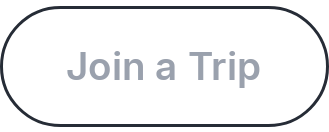
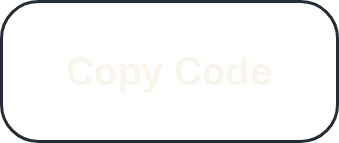
feat(core-ui): restyle buttons and cards, add InkCard and InkGradientBackground
AlongsideButton gains OnPaper and Text variants, a 52dp min height and
the design's 14dp corner shape; Secondary gets the subtle outline +
paper text. PaperCard moves to the paper token (surface is dark now).

diff --git a/core/ui/src/commonMain/kotlin/com/alongside/core/ui/component/AlongsideButton.kt b/core/ui/src/commonMain/kotlin/com/alongside/core/ui/component/AlongsideButton.kt
@@ -1,15 +1,26 @@
 package com.alongside.core.ui.component
 
+import androidx.compose.foundation.BorderStroke
+import androidx.compose.foundation.layout.Box
 import androidx.compose.foundation.layout.PaddingValues
+import androidx.compose.foundation.layout.defaultMinSize
+import androidx.compose.foundation.layout.padding
 import androidx.compose.material3.Button
 import androidx.compose.material3.ButtonDefaults
+import androidx.compose.material3.MaterialTheme
 import androidx.compose.material3.OutlinedButton
+import androidx.compose.material3.Surface
 import androidx.compose.material3.Text
+import androidx.compose.material3.TextButton
 import androidx.compose.runtime.Composable
 import androidx.compose.ui.Modifier
 import androidx.compose.ui.tooling.preview.Preview
 import androidx.compose.ui.unit.dp
+import com.alongside.core.ui.theme.AlongsideSpacing
 import com.alongside.core.ui.theme.AlongsideTheme
+import com.alongside.core.ui.theme.alongsideColors
+
+private val ButtonMinHeight = 52.dp
 
 @Composable
 public fun AlongsideButton(
@@ -19,14 +30,16 @@ public fun AlongsideButton(
     variant: AlongsideButtonVariant = AlongsideButtonVariant.Primary,
     enabled: Boolean = true,
 ) {
+    val shape = MaterialTheme.shapes.medium
     val contentPadding = PaddingValues(horizontal = 24.dp, vertical = 12.dp)
+    val sizedModifier = modifier.defaultMinSize(minHeight = ButtonMinHeight)
     when (variant) {
         AlongsideButtonVariant.Primary ->
             Button(
                 onClick = onClick,
-                modifier = modifier,
+                modifier = sizedModifier,
                 enabled = enabled,
-                shape = ButtonDefaults.shape,
+                shape = shape,
                 contentPadding = contentPadding,
             ) {
                 Text(text)
@@ -35,9 +48,45 @@ public fun AlongsideButton(
         AlongsideButtonVariant.Secondary ->
             OutlinedButton(
                 onClick = onClick,
-                modifier = modifier,
+                modifier = sizedModifier,
                 enabled = enabled,
-                shape = ButtonDefaults.outlinedShape,
+                shape = shape,
+                border = BorderStroke(1.dp, MaterialTheme.colorScheme.outline),
+                colors =
+                    ButtonDefaults.outlinedButtonColors(
+                        contentColor = MaterialTheme.alongsideColors.paper,
+                    ),
+                contentPadding = contentPadding,
+            ) {
+                Text(text)
+            }
+
+        AlongsideButtonVariant.OnPaper ->
+            Button(
+                onClick = onClick,
+                modifier = sizedModifier,
+                enabled = enabled,
+                shape = shape,
+                colors =
+                    ButtonDefaults.buttonColors(
+                        containerColor = MaterialTheme.alongsideColors.paperWhite,
+                        contentColor = MaterialTheme.alongsideColors.onPaper,
+                    ),
+                contentPadding = contentPadding,
+            ) {
+                Text(text)
+            }
+
+        AlongsideButtonVariant.Text ->
+            TextButton(
+                onClick = onClick,
+                modifier = sizedModifier,
+                enabled = enabled,
+                shape = shape,
+                colors =
+                    ButtonDefaults.textButtonColors(
+                        contentColor = MaterialTheme.alongsideColors.labelMuted,
+                    ),
                 contentPadding = contentPadding,
             ) {
                 Text(text)
@@ -49,7 +98,7 @@ public fun AlongsideButton(
 @Composable
 private fun AlongsideButtonPrimaryPreview() {
     AlongsideTheme {
-        AlongsideButton(text = "Continue with Google", onClick = {})
+        AlongsideButton(text = "Allow Photo Access", onClick = {})
     }
 }
 
@@ -57,6 +106,30 @@ private fun AlongsideButtonPrimaryPreview() {
 @Composable
 private fun AlongsideButtonSecondaryPreview() {
     AlongsideTheme {
-        AlongsideButton(text = "Join a Trip", onClick = {}, variant = AlongsideButtonVariant.Secondary)
+        AlongsideButton(text = "Copy Code", onClick = {}, variant = AlongsideButtonVariant.Secondary)
+    }
+}
+
+@Preview
+@Composable
+private fun AlongsideButtonOnPaperPreview() {
+    AlongsideTheme {
+        Surface(color = MaterialTheme.alongsideColors.paper) {
+            Box(modifier = Modifier.padding(AlongsideSpacing.lg)) {
+                AlongsideButton(
+                    text = "Continue with Google",
+                    onClick = {},
+                    variant = AlongsideButtonVariant.OnPaper,
+                )
+            }
+        }
+    }
+}
+
+@Preview
+@Composable
+private fun AlongsideButtonTextPreview() {
+    AlongsideTheme {
+        AlongsideButton(text = "Not now", onClick = {}, variant = AlongsideButtonVariant.Text)
     }
 }

diff --git a/core/ui/src/commonMain/kotlin/com/alongside/core/ui/component/InkGradientBackground.kt b/core/ui/src/commonMain/kotlin/com/alongside/core/ui/component/InkGradientBackground.kt
@@ -1,0 +1,42 @@
+package com.alongside.core.ui.component
+
+import androidx.compose.foundation.background
+import androidx.compose.foundation.layout.Box
+import androidx.compose.foundation.layout.BoxScope
+import androidx.compose.foundation.layout.size
+import androidx.compose.material3.MaterialTheme
+import androidx.compose.material3.Text
+import androidx.compose.runtime.Composable
+import androidx.compose.ui.Modifier
+import androidx.compose.ui.graphics.Brush
+import androidx.compose.ui.tooling.preview.Preview
+import androidx.compose.ui.unit.dp
+import com.alongside.core.ui.theme.AlongsideTheme
+import com.alongside.core.ui.theme.alongsideColors
+
+/** Hero-screen background: near-black ink with a subtle vertical gradient. */
+@Composable
+public fun InkGradientBackground(
+    modifier: Modifier = Modifier,
+    content: @Composable BoxScope.() -> Unit,
+) {
+    val brush =
+        Brush.verticalGradient(
+            colors =
+                listOf(
+                    MaterialTheme.alongsideColors.gradientTop,
+                    MaterialTheme.alongsideColors.gradientBottom,
+                ),
+        )
+    Box(modifier = modifier.background(brush), content = content)
+}
+
+@Preview
+@Composable
+private fun InkGradientBackgroundPreview() {
+    AlongsideTheme {
+        InkGradientBackground(modifier = Modifier.size(240.dp, 160.dp)) {
+            Text("Alongside")
+        }
+    }
+}

diff --git a/core/ui/src/androidHostTest/kotlin/com/alongside/core/ui/component/AlongsideButtonTest.kt b/core/ui/src/androidHostTest/kotlin/com/alongside/core/ui/component/AlongsideButtonTest.kt
@@ -49,6 +49,42 @@ class AlongsideButtonTest {
     }
 
     @Test
+    fun `click on onPaper button invokes onClick`() {
+        var clicked = false
+        composeTestRule.setContent {
+            AlongsideTheme {
+                AlongsideButton(
+                    text = "Continue with Google",
+                    onClick = { clicked = true },
+                    variant = AlongsideButtonVariant.OnPaper,
+                )
+            }
+        }
+
+        composeTestRule.onNodeWithText("Continue with Google").performClick()
+
+        assertEquals(true, clicked)
+    }
+
+    @Test
+    fun `click on text button invokes onClick`() {
+        var clicked = false
+        composeTestRule.setContent {
+            AlongsideTheme {
+                AlongsideButton(
+                    text = "Not now",
+                    onClick = { clicked = true },
+                    variant = AlongsideButtonVariant.Text,
+                )
+            }
+        }
+
+        composeTestRule.onNodeWithText("Not now").performClick()
+
+        assertEquals(true, clicked)
+    }
+
+    @Test
     fun `disabled button does not invoke onClick`() {
         var clicked = false
         composeTestRule.setContent {

diff --git a/core/ui/src/commonMain/kotlin/com/alongside/core/ui/component/AlongsideButtonVariant.kt b/core/ui/src/commonMain/kotlin/com/alongside/core/ui/component/AlongsideButtonVariant.kt
@@ -1,3 +1,15 @@
 package com.alongside.core.ui.component
 
-public enum class AlongsideButtonVariant { Primary, Secondary }
+public enum class AlongsideButtonVariant {
+    /** Filled terracotta button on the dark canvas ("Allow Photo Access", "Create Trip"). */
+    Primary,
+
+    /** Outlined button on the dark canvas ("Copy Code"). */
+    Secondary,
+
+    /** White filled button sitting on a cream paper sheet ("Continue with Google"). */
+    OnPaper,
+
+    /** Plain muted text button ("Not now"). */
+    Text,
+}